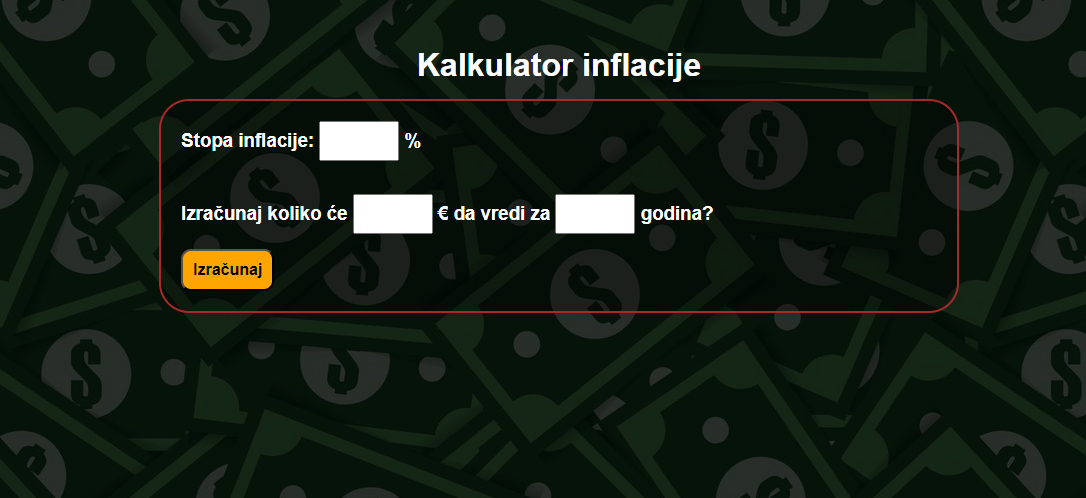
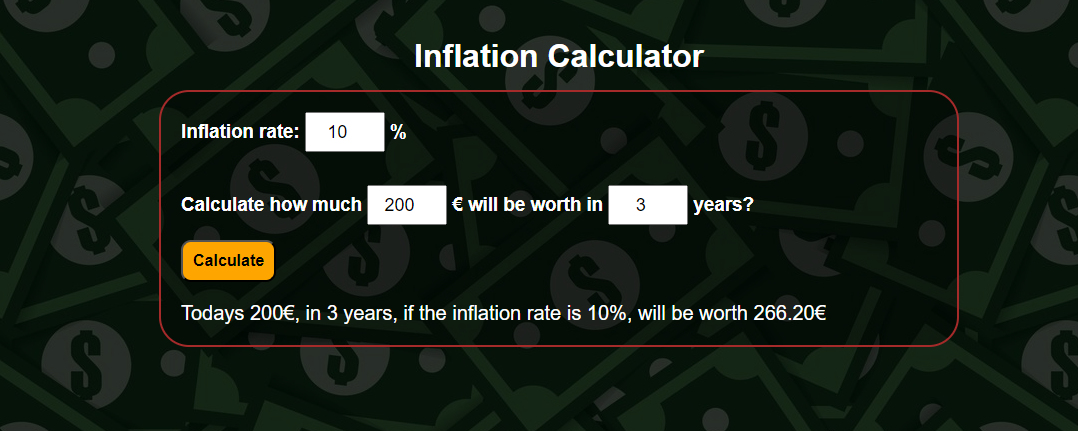
Translated

diff --git a/script.js b/script.js
@@ -18,7 +18,7 @@ function inflationCalculator() {
 
     let newElement = document.createElement('div'); // pravimo novi element tipa div
     newElement.className = 'new-value'; // dodeljujemo nasem elementu klasu
-    newElement.innerText = `Danasnjih ${novac} evra ce za ${godine} godina, ako je kamatna stopa ${stopa}, vredeti ${vrednost_posle}`;
+    newElement.innerText = `Todays ${novac}€, in ${godine} years, if the inflation rate is ${stopa}%, will be worth ${vrednost_posle}€`;
     
     document.querySelector('.container').appendChild(newElement);
     
